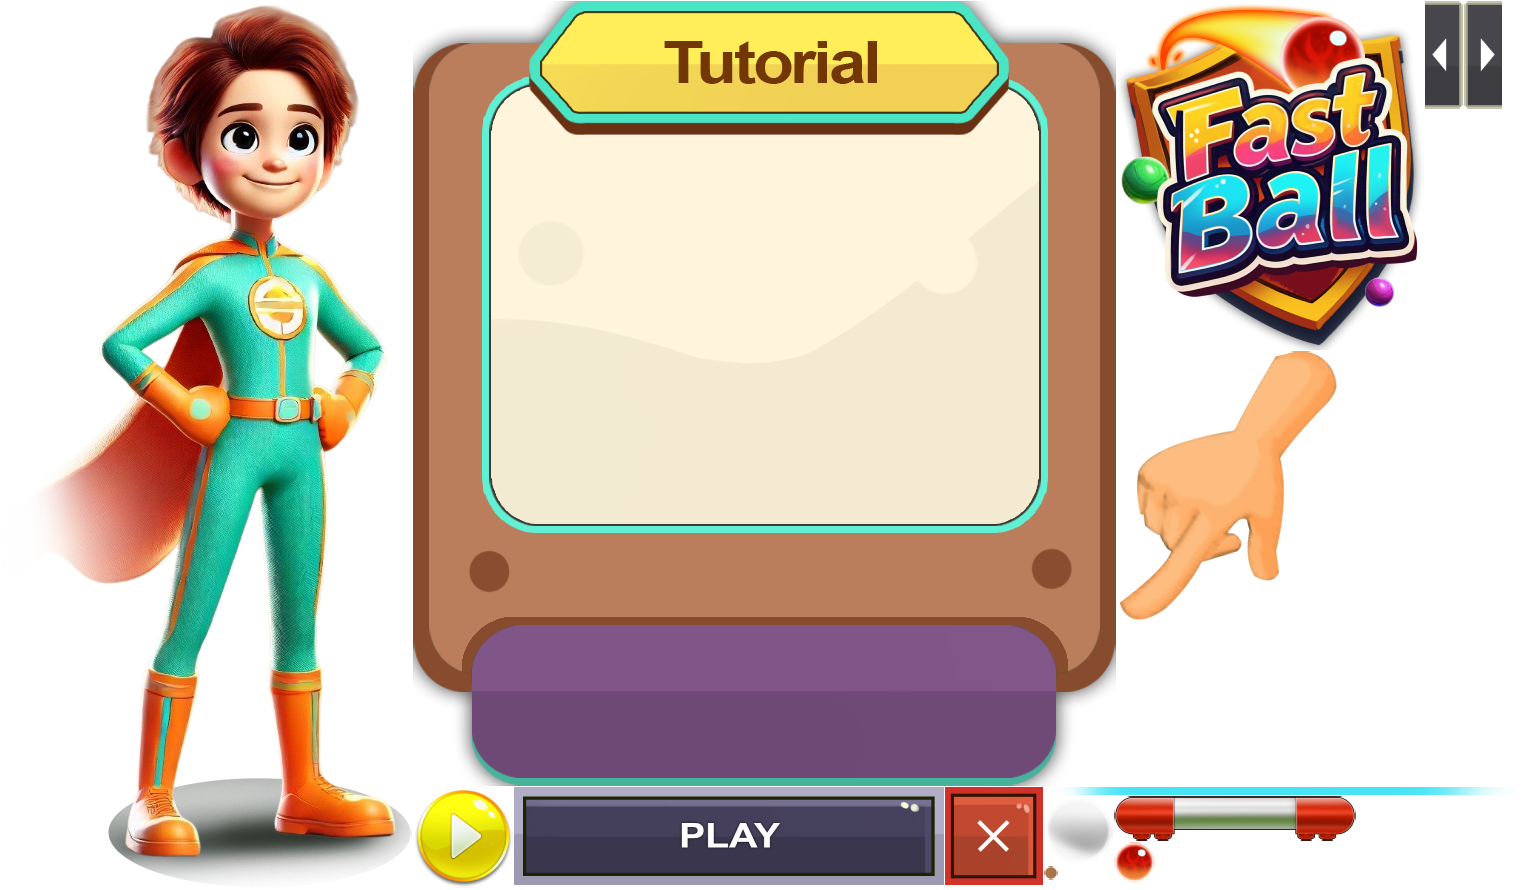
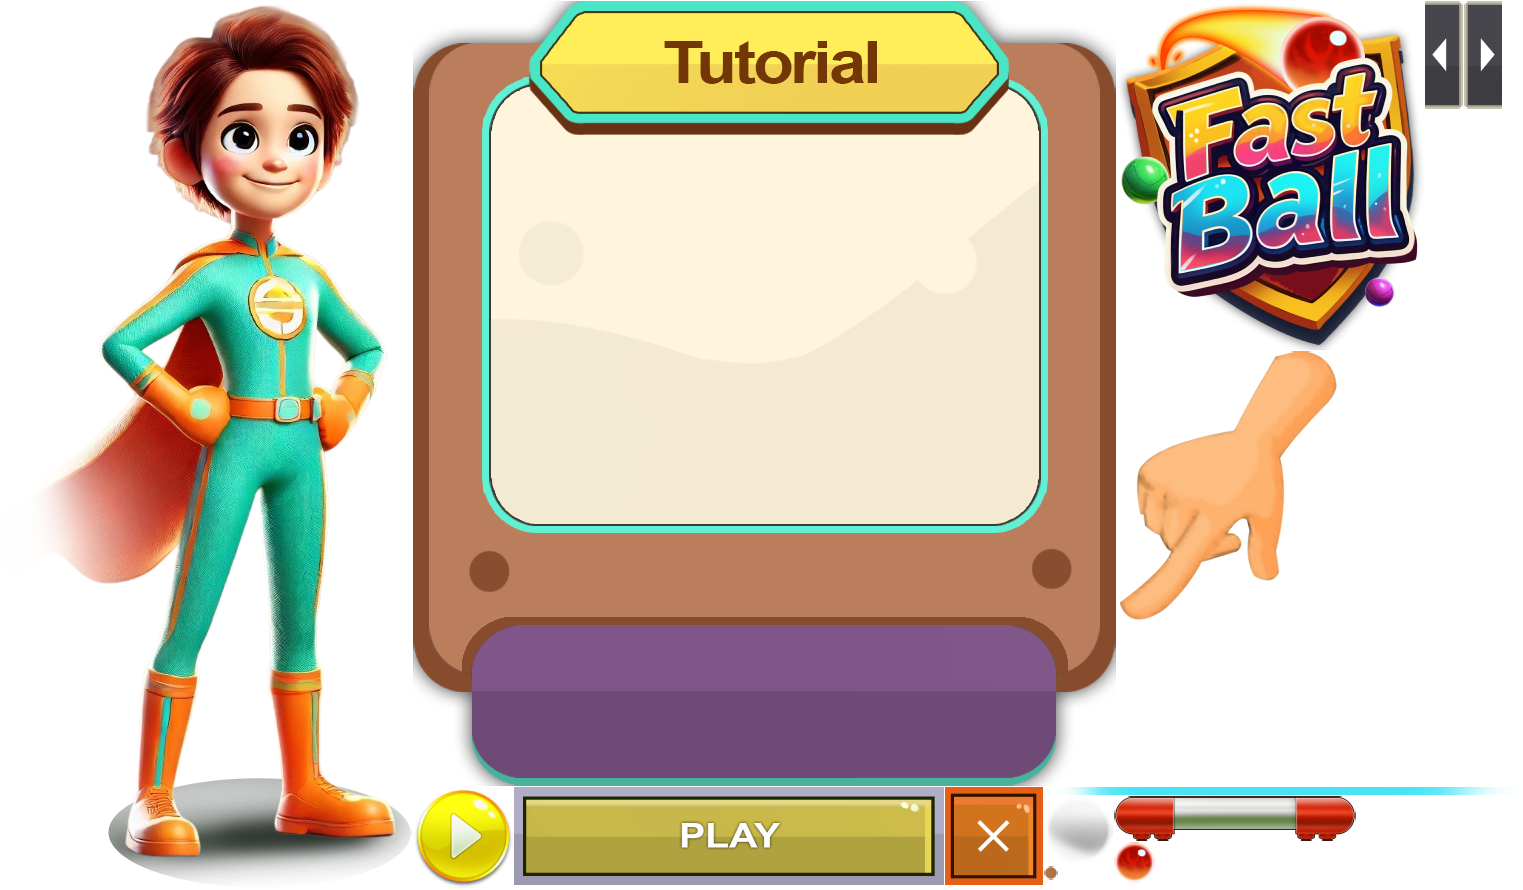
updated pong assets

Changed region(s): [[0.3395, 0.8798, 0.7098, 1.0]]

diff --git a/objects/intro.js b/objects/intro.js
@@ -19,9 +19,8 @@ export class Intro extends Phaser.GameObjects.Container {
         this.level = 0;
         this.left = this.scene.add.sprite(0, -250, "sheet", "tutorial/left").setOrigin(0.5)
         this.right = this.scene.add.sprite(0, -250, "sheet", "tutorial/right").setOrigin(0.5)
-        this.playBtn = this.scene.add.sprite(0, 0, "sheet", "tutorial/play").setOrigin(0.5).setScale(.9)
+        this.playBtn = this.scene.add.sprite(0, 0, "sheet", "tutorial/play").setOrigin(0.5).setScale(1)
         this.closeBtn = this.scene.add.sprite(0, 0, "sheet", "tutorial/close").setOrigin(0.5)
-        this.closeBtn.visible = false;
 
         this.add([this.left, this.right, this.playBtn, this.closeBtn]);
 
@@ -44,10 +43,13 @@ export class Intro extends Phaser.GameObjects.Container {
             this.changeTutorial(-1);
         });
 
-        this.char = this.scene.add.sprite(-220, 60, "sheet", "character");
+        this.char = this.scene.add.sprite(-220, -20, "sheet", "character");
         this.char.setOrigin(0.5);
         this.char.setScale(0.5);
         this.add(this.char);
+
+        this.bringToTop(this.closeBtn)
+        this.bringToTop(this.playBtn)
 
         this.visible = false;
         this.show();
@@ -85,6 +87,9 @@ export class Intro extends Phaser.GameObjects.Container {
         this.add(nextTutorial);
 
         this.bringToTop(this.char)
+        this.bringToTop(this.closeBtn)
+        this.bringToTop(this.playBtn)
+
         this[`tut${nextLevel + 1}`] = nextTutorial;
 
         nextTutorial.setPosition(
@@ -155,7 +160,7 @@ export class Intro extends Phaser.GameObjects.Container {
         this.left.setPosition(this.dimensions.leftOffset + 17 - this.x, this.dimensions.gameHeight / 2 - 50 - this.y);
         this.right.setPosition(this.dimensions.rightOffset - 17 - this.x, this.dimensions.gameHeight / 2 - 50 - this.y);
         this.closeBtn.setPosition(this.dimensions.leftOffset + 48 - this.x, this.dimensions.bottomOffset - 47 - this.y);
-        this.playBtn.setPosition(this.dimensions.rightOffset - 192 - this.x, this.dimensions.bottomOffset - 44 - this.y);
+        this.playBtn.setPosition(this.dimensions.rightOffset - 210 - this.x, this.dimensions.bottomOffset - 47 - this.y);
 
         [this.tut1, this.tut2, this.tut3].forEach(tut => {
             tut.setPosition(this.dimensions.gameWidth / 2 - this.x, this.dimensions.gameHeight / 2 - this.y - 50);

diff --git a/objects/tut1.js b/objects/tut1.js
@@ -34,14 +34,14 @@ export class Tut1 extends Phaser.GameObjects.Container {
             }
         }
 
-        this.rectWidth = this.frame.displayWidth - 30;
-        this.rectHeight = this.frame.displayHeight - 25;
+        this.rectWidth = this.frame.displayWidth - 50;
+        this.rectHeight = this.frame.displayHeight - 40;
         this.speedMultiplier = 4;
         this.ballVelocityX = 0;
         this.ballVelocityY = 3 * this.speedMultiplier;
-        this.minX = -this.rectWidth / 2 + 3;
+        this.minX = -this.rectWidth / 2;
         this.maxX = this.rectWidth / 2;
-        this.minY = -this.rectHeight / 2 - 49;
+        this.minY = -this.rectHeight / 2 - 53;
         this.maxY = this.rectHeight / 2;
         this.lineInteracted = false;
         this.gameOver = false;
@@ -95,7 +95,7 @@ export class Tut1 extends Phaser.GameObjects.Container {
         this.add(this.hand);
         this.hand.visible = false;
 
-        this.tutorialText = this.scene.add.text(60, 340, this.scene.text.texts[0].intro1, {
+        this.tutorialText = this.scene.add.text(60, 345, this.scene.text.texts[0].intro1, {
             fontFamily: "UberMoveMedium",
             fontSize: 33,
             fill: "#ffffff",

diff --git a/objects/tut3.js b/objects/tut3.js
@@ -34,14 +34,14 @@ export class Tut3 extends Phaser.GameObjects.Container {
             }
         }
 
-        this.rectWidth = this.frame.displayWidth - 30;
-        this.rectHeight = this.frame.displayHeight - 25;
+        this.rectWidth = this.frame.displayWidth - 50;
+        this.rectHeight = this.frame.displayHeight - 40;
         this.speedMultiplier = 4;
         this.ballVelocityX = 0;
         this.ballVelocityY = 3 * this.speedMultiplier;
-        this.minX = -this.rectWidth / 2 + 3;
+        this.minX = -this.rectWidth / 2;
         this.maxX = this.rectWidth / 2;
-        this.minY = -this.rectHeight / 2 - 49;
+        this.minY = -this.rectHeight / 2 - 53;
         this.maxY = this.rectHeight / 2;
         this.lineInteracted = false;
         this.gameOver = false;
@@ -51,7 +51,7 @@ export class Tut3 extends Phaser.GameObjects.Container {
         this.rectGraphics.strokeRoundedRect(this.minX, this.minY, this.rectWidth, this.rectHeight, 20);
         this.add(this.rectGraphics);
 
-        this.ball = this.scene.add.sprite(0, -250, "sheet", 'ball');
+        this.ball = this.scene.add.sprite(-10, -250, "sheet", 'ball');
         this.ball.setOrigin(0.5);
         this.add(this.ball);
 

diff --git a/objects/tut2.js b/objects/tut2.js
@@ -34,14 +34,14 @@ export class Tut2 extends Phaser.GameObjects.Container {
             }
         }
 
-        this.rectWidth = this.frame.displayWidth - 30;
-        this.rectHeight = this.frame.displayHeight - 25;
+        this.rectWidth = this.frame.displayWidth - 50;
+        this.rectHeight = this.frame.displayHeight - 40;
         this.speedMultiplier = 4;
         this.ballVelocityX = 0;
         this.ballVelocityY = 3 * this.speedMultiplier;
-        this.minX = -this.rectWidth / 2 + 3;
+        this.minX = -this.rectWidth / 2;
         this.maxX = this.rectWidth / 2;
-        this.minY = -this.rectHeight / 2 - 49;
+        this.minY = -this.rectHeight / 2 - 53;
         this.maxY = this.rectHeight / 2;
         this.lineInteracted = false;
         this.gameOver = false;

diff --git a/scenes/GameScene.js b/scenes/GameScene.js
@@ -64,7 +64,7 @@ export default class GameScene extends Phaser.Scene {
         this.gamePlay = new GamePlay(this, 0, 0, this, dimensions);
         this.gameGroup.add(this.gamePlay);
 
-        this.introBg = this.add.sprite(0, 0, 'game_bg').setOrigin(0.5);
+        this.introBg = this.add.sprite(0, 0, 'bg').setOrigin(0.5);
         this.gameGroup.add(this.introBg);
 
         this.intro = new Intro(this, 0, 0, this, dimensions);
